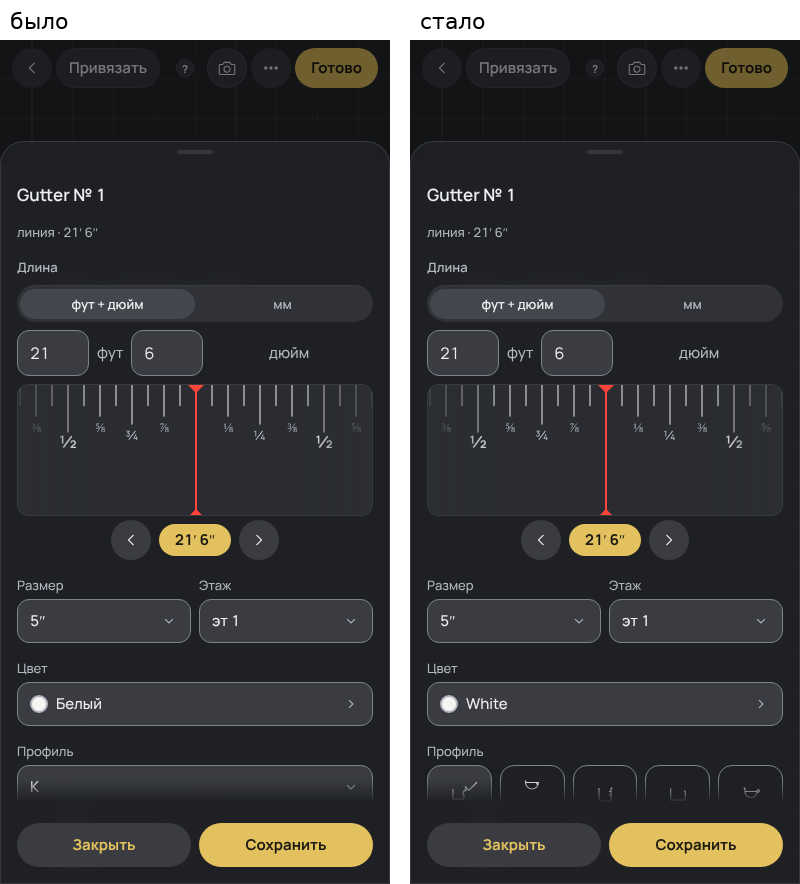
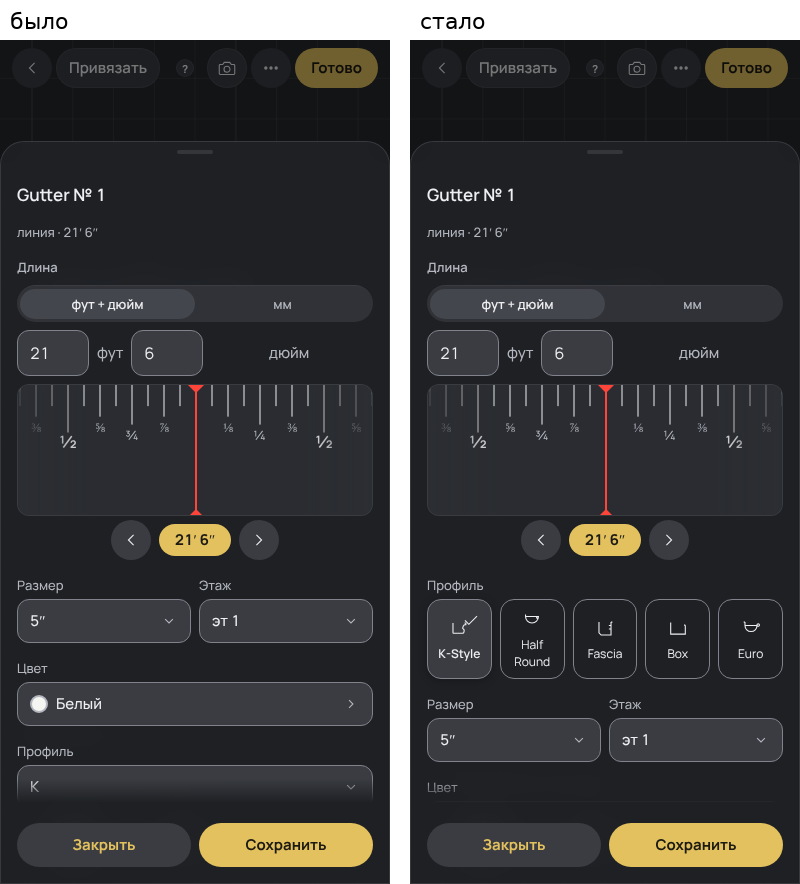
Gutters #3007 по ревью: в окне gutter «Профиль» — сразу под рулеткой, перед «Размер · Этаж»
Размеры следуют за профилем, а под «Размером» плитки профиля уходили под «Закрыть | Сохранить» (crm + design review, 390).
Пары «было | стало» окна gutter пересняты.

Claude-Session: https://claude.ai/code/session_015CqH693X14vyeLn4Ch12jw
(cherry picked from commit dcb15e67bdb0370c3d4a0e2deb74f8a43c270226)

Changed region(s): [[0.5312, 0.6414, 1.0, 0.9163], [0.5312, 0.6414, 0.5938, 0.6719]]

diff --git a/apps/mobile/src/modules/gutters/draw/AttrPanel.tsx b/apps/mobile/src/modules/gutters/draw/AttrPanel.tsx
@@ -493,6 +493,9 @@ export function RunAttrsView({
       {/* the length of the line in the company's format (and in feet when it is another): the window's title no longer carries it (v43: «линия · 3,810 мм · 12′ 6″») */}
       {forNew ? null : <View testID="attr-line-len"><T v="caption" tone="mut">{t(k("lineLen"), { len: lineLenText(run.lengthIn ?? drawnLengthIn(run), ch.lenFormat) })}</T></View>}
       {forNew ? null : <Tape run={run} onLength={onLength} fmt={ch.lenFormat} />}
+      {/* the profile by its cross-section (#2986): tiles, the names of the supplier's chart; first —
+          the sizes offered follow it, and under «Размер» it fell under the window's buttons (crm + design review #3007) */}
+      <Tiles label={t(k("profile"))} testID="attr-profile" items={profiles.map((p) => ({ key: p, label: t(k(`p.${p}`)), icon: PROFILE_ICON[p] }))} value={a.profile} onChange={(profile) => onAttrs({ profile })} />
       <FieldRow>
         <SizePick key={`${run.id}.${a.profile}`} testID="attr-size" offered={ch.offer.sizes[a.profile]} sizes={sizes} known={SIZES_BY_PROFILE[a.profile]} label={inch} value={a.size} read={readOwnRunSize} hint="9″" onSize={(size) => onAttrs({ size })} />
         {/* «Для новых»: no storey — the colour takes its place, two short fields in one row (founder 27.11, #3015) */}
@@ -501,8 +504,6 @@ export function RunAttrsView({
       {/* the colour on a line of its own: in a row of three its name was cut to «Бе…» (design-review G1 PR2 №1, rule 2 — a sample always
           beside its whole name) */}
       {forNew || MILL_ONLY.has(a.material) ? null : <ColorPick a={a} set={onAttrs} ch={ch} />}
-      {/* the profile by its cross-section (#2986): tiles, the names of the supplier's chart */}
-      <Tiles label={t(k("profile"))} testID="attr-profile" items={profiles.map((p) => ({ key: p, label: t(k(`p.${p}`)), icon: PROFILE_ICON[p] }))} value={a.profile} onChange={(profile) => onAttrs({ profile })} />
       <More open0={false} id={run.id} label={t(k("moreRun"))}>
         {/* G2 (#2412): the hangers of the chart by name (NAMES-41) need the model's new kits — the list shows the kits there are */}
         <Choice list label={t(k("hanger"))} testID="attr-hanger" offered={hangerKitsFor(a.profile, ch)} items={kits.map((id) => ({ key: id, label: t(k(`k.${id}`)), leading: { icon: "channel" as const } }))} value={a.hanger} onChange={(hanger) => onAttrs({ hanger })} />
